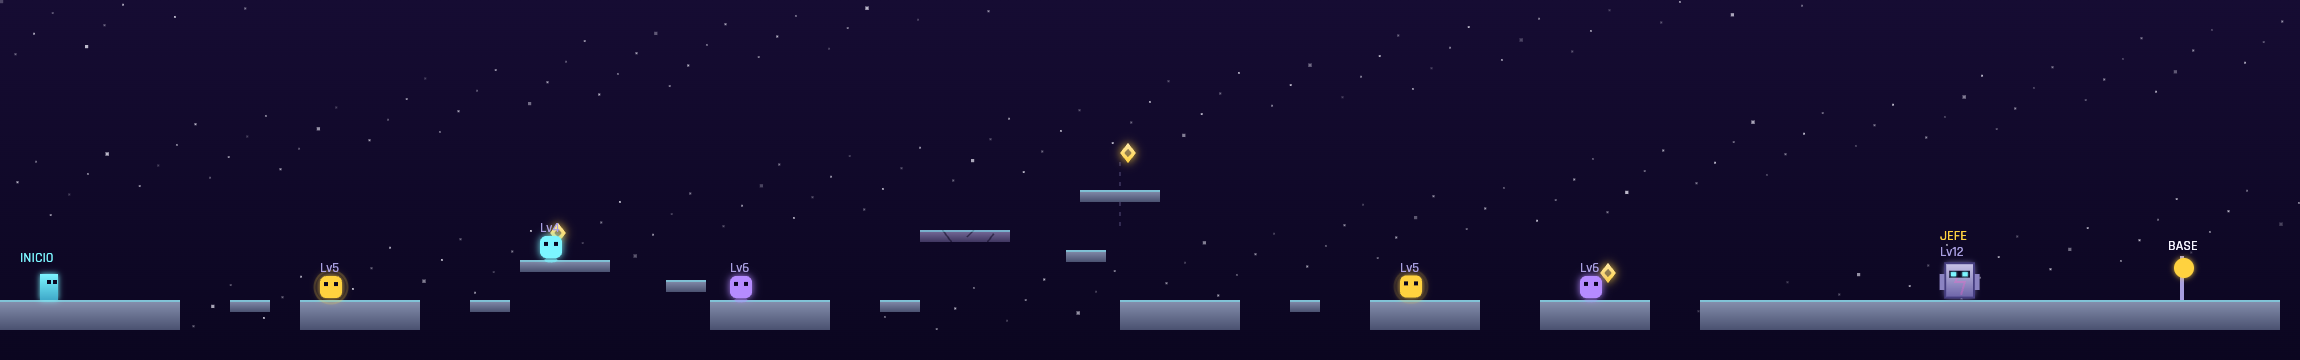
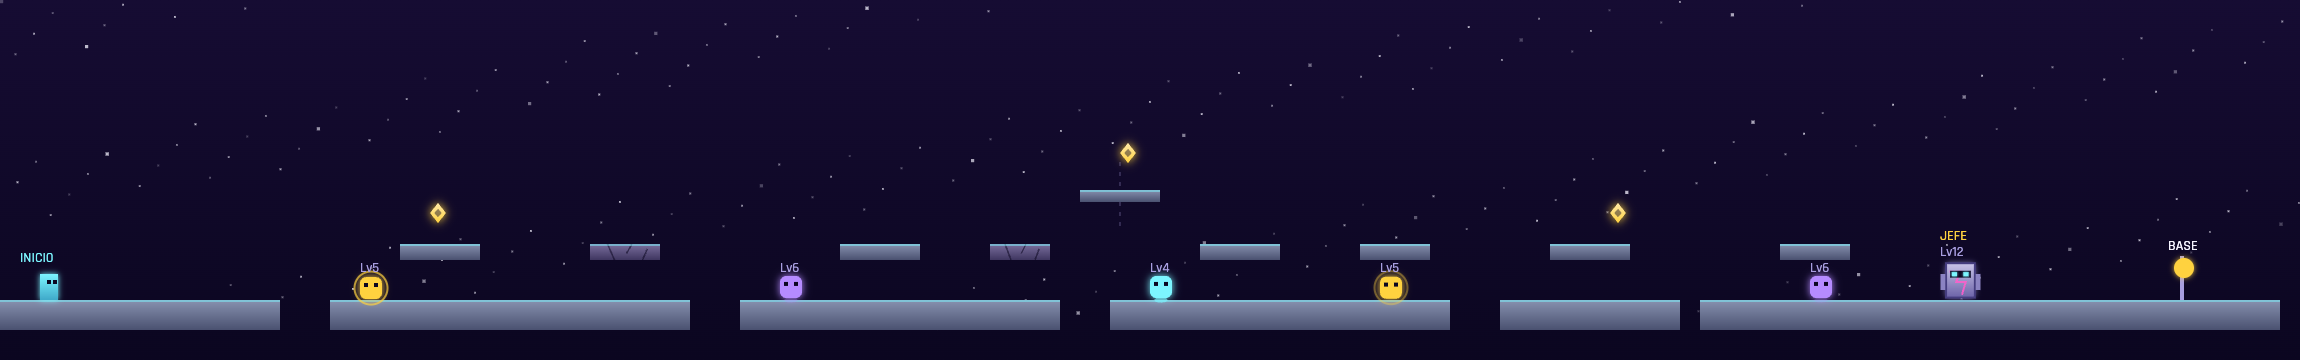
Núcleo del Centinela: el jefe domina la zona con ondas a ras de suelo
El nivel 6 era el de menos peso respecto a su posición: un pasillo
estándar con el duelo al final. Ahora el Centinela domina toda la
aproximación (sentinelWatch en levels.js, patrón calcado de la
tormenta): mientras viva, barre el suelo de su zona con ondas de
energía en ciclo determinista — 3s de calma, 1s apuntando (la franja
se enciende en rojo y las coberturas brillan en cian) y 1s de onda que
daña a quien pise el suelo (6 de daño, tregua corta: aguantar el
barrido entero en el suelo cuesta dos golpes). El nivel se convierte
en un mini-jefe de plataformas ANTES del duelo por turnos, que queda
como fase 2 intacta. Al ganar el duelo la zona se apaga: el dominio
era suyo, y rejugarlo conquistado es un paseo.

El nivel se rehace alrededor de la regla: suelo casi continuo para
correr en la calma y siete coberturas elevadas de salto simple (dos
frágiles: tu refugio puede desmoronarse contigo encima en plena onda),
repartidas para que desde cualquier punto haya una a menos de lo
andable durante el aviso — invariante fijado por test muestreando la
zona entera. La onda (60f) dura más que un salto simple (27f) a
propósito: saltar sin cobertura no basta, que era el encargo; el
doble salto/vuelo sí la aguanta — la Energía compra el atajo. Se
descartó el line-of-sight tras pilares: en 1D, el primer pilar da
sombra a toda la zona y la mecánica se trivializa.

La primera calibración (calma 4s, onda 0,8s, tregua 50) dejaba cruzar
[…]

diff --git a/js/game.js b/js/game.js
@@ -692,6 +692,18 @@ class Game {
         this.stormT = 0;
         // Sistema de emergencia (árbol de mejoras): se rearma con cada (re)carga de nivel.
         this.player.emergencyUsed = false;
+        // Barrido del Centinela (ver sentinelWatch en levels.js): como la tormenta, el reloj
+        // arranca en calma con cada (re)carga — nunca reapareces con la onda encima.
+        this.watchT = 0;
+    }
+
+    // Fase del barrido del Centinela según this.watchT: calma (avanza) → apunta (súbete a una
+    // cobertura) → onda (el suelo de su zona quema). Frames, determinista, como la tormenta.
+    watchPhase(watch) {
+        const c = this.watchT % (watch.calm + watch.warn + watch.fire);
+        if (c < watch.calm) return 'calm';
+        if (c < watch.calm + watch.warn) return 'warn';
+        return 'fire';
     }
 
     // Destapa en el mapa las puertas de las torres cuyo umbral de cristales ya se cumple.
@@ -1575,6 +1587,33 @@ class Game {
                 }
             }
 
+            // Barrido del Centinela: solo mientras el jefe viva. En plena onda, daña a quien
+            // tenga los pies en la franja del suelo de su zona — a salvo sobre una cobertura
+            // elevada o en el aire. Mismo patrón golpe+tregua que puertas y tormenta.
+            const watch = level.sentinelWatch;
+            if (watch) {
+                const watchBoss = this.enemies.find(e => e.isBoss);
+                if (watchBoss && watchBoss.alive) {
+                    const prevWatch = this.watchPhase(watch);
+                    this.watchT++;
+                    const wPhase = this.watchPhase(watch);
+                    if (wPhase === 'warn' && prevWatch === 'calm') {
+                        if (window.SFX) SFX.bossCharge();
+                        this.showHint('sentinel-watch', 'El Centinela barre su dominio a ras de suelo: cuando apunte, súbete a una cobertura elevada — un salto no dura lo que la onda.');
+                    }
+                    if (wPhase === 'fire' && this.playerInvulnerable === 0
+                        && this.player.x + this.player.w > watch.zoneStart && this.player.x < watchBoss.x
+                        && this.player.y + this.player.h > watch.band) {
+                        this.player.takeDamage(this.hazardDamage(6));
+                        this.playerInvulnerable = 40; // tregua corta a propósito: quedarse en el suelo la onda entera cuesta DOS golpes
+                        this.shake = Math.max(this.shake, 6);
+                        this.particles.burst(this.player.x + this.player.w / 2, this.player.y + this.player.h, '#ff5c6c', 12, { speed: 2, life: 20, size: 2.5 });
+                        if (window.SFX) SFX.zap();
+                        if (this.player.hp <= 0) { this.loseLife(); return; }
+                    }
+                }
+            }
+
             for (const cry of this.crystals) {
                 if (cry.collected) continue;
                 cry.update();
@@ -1798,6 +1837,55 @@ class Game {
                     ctx.font = '10px "Rajdhani", sans-serif'; ctx.fillStyle = PALETTE.dim;
                     ctx.fillText('EL NÚCLEO VA A COLAPSAR', GAME_WIDTH / 2, GAME_HEIGHT / 2 + 18);
                     ctx.textAlign = 'left';
+                }
+            }
+
+            // Barrido del Centinela: capa visual (la lógica de daño vive en update()). Apuntar
+            // = resplandor rojo creciente en la franja del suelo de la zona; onda = franja roja
+            // encendida con parpadeo. El brillo cian sobre cada cobertura señala dónde subirse
+            // (la misma idea que el resplandor de refugios de la tormenta). Con reduceEffects,
+            // valores fijos sin pulso.
+            if (level.sentinelWatch) {
+                const watchBoss = this.enemies.find(e => e.isBoss);
+                if (watchBoss && watchBoss.alive) {
+                    const w = level.sentinelWatch;
+                    const wPhase = this.watchPhase(w);
+                    if (wPhase !== 'calm') {
+                        const zx = Math.max(w.zoneStart - this.cameraX, 0);
+                        const zw = Math.min(watchBoss.x - this.cameraX, GAME_WIDTH) - zx;
+                        if (zw > 0) {
+                            if (wPhase === 'warn') {
+                                const c = this.watchT % (w.calm + w.warn + w.fire);
+                                const charge = this.reduceEffects ? 0.5 : (c - w.calm) / w.warn; // crece hacia la onda
+                                ctx.fillStyle = `rgba(255,92,108,${0.08 + 0.14 * charge})`;
+                                ctx.fillRect(zx, w.band, zw, 150 - w.band + 8);
+                            } else {
+                                const flick = this.reduceEffects ? 1 : 0.8 + Math.random() * 0.2;
+                                ctx.save();
+                                ctx.shadowColor = '#ff5c6c'; ctx.shadowBlur = 8;
+                                ctx.fillStyle = `rgba(255,92,108,${0.5 * flick})`;
+                                ctx.fillRect(zx, w.band, zw, 150 - w.band + 8);
+                                ctx.fillStyle = `rgba(255,235,235,${0.55 * flick})`;
+                                ctx.fillRect(zx, w.band, zw, 3);
+                                ctx.restore();
+                            }
+                            // brillo sobre las coberturas: dónde subirse
+                            for (const p of this.platforms) {
+                                if (!p.solid || p.y > w.band || p.h > 10 || p.y < 100) continue;
+                                const sx = p.x - this.cameraX;
+                                if (sx > GAME_WIDTH || sx + p.w < 0) continue;
+                                const coverGrad = ctx.createLinearGradient(0, p.y - 14, 0, p.y);
+                                coverGrad.addColorStop(0, 'rgba(124,245,255,0)');
+                                coverGrad.addColorStop(1, 'rgba(124,245,255,0.2)');
+                                ctx.fillStyle = coverGrad;
+                                ctx.fillRect(sx, p.y - 14, p.w, 14);
+                            }
+                            ctx.fillStyle = wPhase === 'warn' ? 'rgba(255,92,108,0.9)' : 'rgba(255,235,235,0.95)';
+                            ctx.font = 'bold 8px "Rajdhani", sans-serif'; ctx.textAlign = 'center';
+                            ctx.fillText(wPhase === 'warn' ? '⚠ EL CENTINELA APUNTA' : '⚡ ONDA DE BARRIDO — A CUBIERTO', GAME_WIDTH / 2, 28);
+                            ctx.textAlign = 'left';
+                        }
+                    }
                 }
             }
 

diff --git a/__tests__/live.test.js b/__tests__/live.test.js
@@ -1407,6 +1407,120 @@ describe('Tormenta iónica — nivel 5 (contra js/game.js real)', () => {
     });
 });
 
+describe('El dominio del Centinela — barrido del nivel 6 (contra js/game.js real)', () => {
+    function inWatchLevel() {
+        const { game, LEVELS, Player } = loadGame();
+        game.gameStarted = true;
+        game.loadLevel(5); // Núcleo del Centinela
+        game.inWorldMap = false; game.inLevel = true; game.combat = null; game.levelCompleting = false;
+        // aparta a todos MENOS al jefe (la zona depende de que siga vivo)
+        game.enemies.forEach(e => { if (!e.isBoss) { e.x = -2500; e.initialX = -2500; } });
+        game.hintsSeen.add('sentinel-watch');
+        return { game, watch: LEVELS[5].sentinelWatch, LEVELS, Player };
+    }
+    function standAt(game, x, y = 137) {
+        game.player.x = x; game.player.y = y;
+        game.player.vx = 0; game.player.vy = 0; game.player.onGround = true;
+    }
+
+    test('el ciclo calma → apunta → onda es determinista por frames', () => {
+        const { game, watch } = inWatchLevel();
+        game.watchT = 0;
+        expect(game.watchPhase(watch)).toBe('calm');
+        game.watchT = watch.calm;
+        expect(game.watchPhase(watch)).toBe('warn');
+        game.watchT = watch.calm + watch.warn;
+        expect(game.watchPhase(watch)).toBe('fire');
+        game.watchT = watch.calm + watch.warn + watch.fire;
+        expect(game.watchPhase(watch)).toBe('calm');
+    });
+
+    test('la onda golpea a quien pisa el suelo de la zona, con tregua (no re-golpea por frame)', () => {
+        const { game, watch } = inWatchLevel();
+        standAt(game, 250); // suelo de la zona, sin cobertura
+        game.watchT = watch.calm + watch.warn;
+        const hp0 = game.player.hp;
+        game.update();
+        expect(game.player.hp).toBe(hp0 - Math.max(1, 6 - game.player.defense));
+        expect(game.playerInvulnerable).toBe(40);
+        const hp1 = game.player.hp;
+        for (let i = 0; i < 20; i++) game.update();
+        expect(game.player.hp).toBe(hp1);
+    });
+
+    test('sobre una cobertura elevada, la onda entera pasa de largo', () => {
+        const { game, watch } = inWatchLevel();
+        standAt(game, 210, 109); // encima de la cobertura [200,122,40,8]
+        game.watchT = watch.calm + watch.warn;
+        const hp0 = game.player.hp;
+        for (let i = 0; i < watch.fire; i++) game.update();
+        expect(game.player.hp).toBe(hp0);
+    });
+
+    test('en el aire en el instante de la onda tampoco golpea (los pies están sobre la franja)', () => {
+        const { game, watch } = inWatchLevel();
+        standAt(game, 250);
+        game.player.y = 90; game.player.onGround = false; game.player.vy = 0; // en pleno salto
+        game.watchT = watch.calm + watch.warn;
+        const hp0 = game.player.hp;
+        game.update();
+        expect(game.player.hp).toBe(hp0);
+    });
+
+    test('la intro (antes de zoneStart) queda fuera del dominio', () => {
+        const { game, watch } = inWatchLevel();
+        standAt(game, 60); // x + w < 140
+        game.watchT = watch.calm + watch.warn;
+        const hp0 = game.player.hp;
+        for (let i = 0; i < watch.fire; i++) game.update();
+        expect(game.player.hp).toBe(hp0);
+    });
+
+    test('con el Centinela derrotado, la zona se apaga', () => {
+        const { game, watch } = inWatchLevel();
+        game.enemies.find(e => e.isBoss).alive = false;
+        standAt(game, 250);
+        game.watchT = watch.calm + watch.warn;
+        const hp0 = game.player.hp;
+        for (let i = 0; i < watch.fire; i++) game.update();
+        expect(game.player.hp).toBe(hp0);
+    });
+
+    test('regla de diseño: desde cualquier punto de la zona hay cobertura (o salida) a lo andable en el aviso', () => {
+        const { game, watch, LEVELS, Player } = inWatchLevel();
+        const lvl = LEVELS[5];
+        const speed = new Player(0, 0, 'kes').speed;
+        const reachInWarn = watch.warn * speed;
+        const bossX = lvl.enemies.find(e => e[2] === 'sentinel')[0];
+        // coberturas: plataformas elevadas finas por encima de la franja
+        const covers = lvl.platforms.filter(p => p[1] < watch.band && p[3] <= 10);
+        expect(covers.length).toBeGreaterThanOrEqual(6);
+        for (let x = watch.zoneStart; x < bossX; x += 5) {
+            const toCover = Math.min(...covers.map(c => x < c[0] ? c[0] - x : (x > c[0] + c[2] ? x - (c[0] + c[2]) : 0)));
+            const toExit = x - watch.zoneStart; // también vale retirarse de la zona
+            expect(Math.min(toCover, toExit)).toBeLessThanOrEqual(reachInWarn);
+        }
+    });
+
+    test('regla de diseño: la onda dura más que un salto simple — saltar sin cobertura no basta', () => {
+        const { watch, LEVELS, Player } = inWatchLevel();
+        const { Platform } = loadGame();
+        const floor = new Platform(0, 150, 500, 15);
+        const p = new Player(20, 137, 'scrap');
+        p.onGround = true;
+        const particles = { burst() {} };
+        let jumped = false, airFrames = 0;
+        for (let f = 0; f < 120; f++) {
+            p.update({ Space: !jumped }, [floor], particles);
+            jumped = true;
+            if (!p.onGround) airFrames++;
+            else if (jumped && f > 5) break; // aterrizó: fin del salto
+        }
+        expect(airFrames).toBeGreaterThan(0);
+        expect(watch.fire).toBeGreaterThan(airFrames); // 50 > ~27: el aire no te cubre la onda entera
+    });
+});
+
 describe('Túnel de Escape — cuenta atrás del scroll forzado (contra js/game.js real)', () => {
     function inTunnel() {
         const { game } = loadGame();

diff --git a/js/levels.js b/js/levels.js
@@ -177,20 +177,34 @@ const LEVELS = [
     },
     {
         name: 'Núcleo del Centinela', world: 2, variant: 'metal',
+        // El Centinela DOMINA su zona: mientras viva, barre el suelo con ondas de energía en
+        // ciclo determinista (calma 3s → apunta 1s → onda 1s; lógica en Game.update). La
+        // onda daña a quien tenga los pies en la franja del suelo entre zoneStart y el jefe:
+        // te salvas subiéndote a una COBERTURA elevada (y=122, algunas frágiles...) o
+        // aguantando en el aire — y una onda (60f) dura más que un salto simple (27f), así que
+        // saltar sin cobertura no basta. Es el inverso de la tormenta del N5: allí te escondes
+        // DEBAJO; aquí te subes ENCIMA. Al ganar el duelo, la zona se apaga.
+        sentinelWatch: { zoneStart: 140, calm: 180, warn: 60, fire: 60, band: 132 },
         platforms: [
-            [0, 150, 90, 15], [150, 150, 60, 15], [260, 130, 45, 6],
-            [355, 150, 60, 15], [460, 115, 45, 6, 'fragile'], [560, 150, 60, 15],
-            // Antesala añadida al alargar el nivel: la arena del Centinela se desplaza a la
-            // derecha y estos dos tramos rellenan el camino.
-            [685, 150, 55, 15], [770, 150, 55, 15], [850, 150, 290, 15],
-            // Camino bajo con salto simple (ver Grietas de Hielo/Chatarral Magnético).
-            [115, 150, 20, 6], [235, 150, 20, 6], [333, 140, 20, 6],
-            [440, 150, 20, 6], [533, 125, 20, 6], [645, 150, 15, 6]
+            // Intro segura (antes de zoneStart) y suelo casi continuo: correr es la fase de
+            // avance; los huecos de 25 son el único peligro del suelo fuera de las ondas.
+            [0, 150, 140, 15],
+            [165, 150, 180, 15], [370, 150, 160, 15], [555, 150, 170, 15], [750, 150, 90, 15],
+            [850, 150, 290, 15],
+            // Coberturas (subida 28: salto simple), repartidas para que desde cualquier punto
+            // de la zona haya una a ≤93 — lo andable durante el aviso de 60 frames. Dos son
+            // FRÁGILES: tu cobertura puede desmoronarse bajo los pies en plena onda.
+            [200, 122, 40, 8], [295, 122, 35, 8, 'fragile'],
+            [420, 122, 40, 8], [495, 122, 30, 8, 'fragile'],
+            [600, 122, 40, 8], [680, 122, 35, 8],
+            [775, 122, 40, 8],
+            [890, 122, 35, 8] // la de la arena: la última antes del duelo
         ],
         movingPlatforms: [[540, 95, 40, 6, 14, 0.02]],
-        enemies: [[160, 138, 'magnetite'], [270, 118, 'hoverbot', 40], [365, 138, 'ionwisp', 50], [700, 138, 'magnetite'], [790, 138, 'ionwisp', 45], [970, 130, 'sentinel']],
-        // Cristales de Señal: flotante del camino, punto alto de la móvil y la antesala.
-        crystals: [[275, 112], [560, 72], [800, 132]],
+        enemies: [[180, 138, 'magnetite'], [390, 138, 'ionwisp', 50], [575, 138, 'hoverbot', 45], [690, 138, 'magnetite'], [905, 138, 'ionwisp', 40], [970, 130, 'sentinel']],
+        // Cristales de Señal: sobre la 1ª cobertura, el punto alto de la móvil y la cobertura
+        // de la antesala.
+        crystals: [[215, 102], [560, 72], [805, 102]],
         goal: 1090, boss: 'sentinel'
     },
 

diff --git a/GUIA.md b/GUIA.md
@@ -98,6 +98,7 @@ El Mundo 1 estrena el terreno con un solo giro (el hielo del nivel 2 — que ade
 | **Plataforma frágil** (agrietada) | Mundo 2 (nivel 4) | Al pisarla tiembla y se desmorona a los ~0,8s. **Reaparece a los 3s** — nunca te deja encerrado | No te pares encima: cruza de una pasada. Si cae, espera a que reaparezca |
 | **Plataforma móvil** (raíl punteado) | Mundo 2 (nivel 4) | Sube y baja en ciclo constante. Te lleva encima sin resbalar | Son atajos de ruta alta — el camino obligatorio nunca depende de ellas en los 12 niveles del mapa. **Excepción**: en los niveles Extra pueden ser **ascensores obligatorios** (Aguja Glacial) — espera a que baje, súbete y viaja |
 | **Tormenta iónica** (ciclo de cielo) | Mundo 2 (nivel 5) | Ciclo global de 8,5s: **5s de calma** → **1,5s de aviso** (tinte ámbar, «⚠ TORMENTA INMINENTE») → **2s de descarga** (tinte violeta y rayos). Durante la descarga, estar **al raso** hace 5 de daño con tregua de invulnerabilidad (~hasta 3 golpes si aguantas fuera la descarga entera) | La regla del techo: estás a salvo con **cualquier plataforma sólida encima de la cabeza** — el resplandor cian bajo las plataformas te marca dónde. Corre de refugio en refugio durante la calma; si el aviso te pilla a medias, métete bajo la flotante más cercana o paga el peaje en HP |
+| **Barrido del Centinela** (franja roja en el suelo) | Mundo 2 (nivel 6) | Solo mientras el jefe viva: ciclo de 5s — **3s de calma** → **1s apuntando** (la franja del suelo se enciende en rojo) → **1s de onda** a ras de suelo por TODA su zona. Pisar el suelo durante la onda hace **6 de daño**, con tregua corta (quedarte el barrido entero cuesta dos golpes) | Súbete a una **cobertura elevada** (brillan en cian al apuntar; dos son frágiles...) o gasta habilidad aérea para aguantar en el aire — un salto simple (27f) NO dura lo que la onda (60f). Al ganar el duelo, la zona se apaga |
 | **Puerta de energía** (columna vertical entre emisores) | Mundo 3 (nivel 7) | Bloquea el paso a ras de suelo con ciclo fijo de 2,5s: 1,5s apagada → 0,25s de aviso (chisporroteo) → 0,75s activa. Activa hace **4 de daño** y te empuja hacia atrás, con tregua de invulnerabilidad | Tres opciones: **esperar** el ciclo (el chisporroteo es tu semáforo), **saltarla por arriba** con habilidad aérea (40 de alto: el salto simple no llega, el doble salto/vuelo/dash sí — la Energía compra tiempo), o **atravesarla pagando** los 4 de daño y aprovechando la tregua. Las puertas de un mismo nivel van desfasadas |
 | **Cinta magnética** (chevrones) | Mundo 3 (nivel 9) | Te arrastra ~30% de tu velocidad en la dirección de los chevrones — siempre en contra | Camina sin pararte (avanzas igual, más despacio) y no te detengas cerca de un borde |
 
@@ -211,7 +212,8 @@ El primer nivel con **presión temporal**: la tormenta iónica descarga en ciclo
 
 ![Mapa del nivel 6](guia/nivel-06.png)
 
-Sin secretos: nivel de puro camino hacia el [Centinela](#-centinela--núcleo-del-centinela-nivel-6), con un islote **frágil** a mitad y una **móvil** de atajo. Los 5 enemigos previos son tu última oportunidad de ganar XP/Energía antes del duelo.
+El dominio del Centinela: desde x≈140 hasta su arena, **barre el suelo con ondas de energía** en ciclo (ver Peligros) mientras siga vivo — el nivel es un mini-jefe de plataformas ANTES del duelo. Corre durante la calma y, cuando la franja del suelo se encienda en rojo, súbete a una de las **coberturas elevadas** (brillan en cian; dos son **frágiles** y pueden desmoronarse contigo encima en plena onda). Magnetitas, espectros y un hoverbot patrullan entre ondas, y la **móvil** sigue siendo la ruta alta.
+- **Jefe**: [Centinela](#%EF%B8%8F-centinela--núcleo-del-centinela-nivel-6). Tras ganar el duelo, la zona se apaga — rejugar el nivel limpio es un paseo.
 
 ### Nivel 7 · Muelle de Carga (Estación Colapsada)
 

diff --git a/DESIGN.md b/DESIGN.md
@@ -369,3 +369,13 @@ Las dos torres Extra (§2.23-2.24) vivían solo tras una URL de depuración. Aho
 - **La puerta APARECE, no se muestra bloqueada**: los nodos extra no se dibujan hasta cumplir su umbral (flag `extra` en `LevelNode` + `applySignalUnlocks`). Un candado visible convierte el secreto en checklist; una puerta que se materializa con «¡SEÑAL TRIANGULADA!» convierte el coleccionable en descubrimiento. Sin `paths` en la constelación: son portales aparte, y el desbloqueo en cadena de `completeLevel` los salta (completar Nodo Cero no destapa nada; solo los cristales abren torres).
 - **Persisten como progresión, no como pickup de sesión**: `signalCrystals` (Set de índices de nivel) viaja en el guardado — a diferencia de `collectedPickups`, que es de sesión — porque abren contenido y no deben "des-recogerse" al recargar el navegador. El mismo Set hace de anti-refarmeo en `loadLevel`. Se pierden con Game Over/victoria/Nueva Partida (ciclo roguelike, como el árbol de mejoras), y el Reto Diario los intercambia con el resto del estado `_real*`.
 - Un test de invariante fija la colocación: exactamente 3 por nivel del mapa, 0 en las torres, y siempre a 8-42 por encima de una plataforma (o del punto ALTO de una móvil) con solape horizontal — es decir, rozables de un salto, nunca decorativos inalcanzables.
+
+### 2.26 El dominio del Centinela: mini-jefe de plataformas antes del duelo
+
+El nivel 6 era el de menos peso respecto a su posición: un pasillo estándar con el duelo al final, idéntico en estructura a cualquier otro. Ahora el Centinela **domina su zona entera** (`sentinelWatch` en `levels.js`, lógica en `Game.update` calcada del patrón de la tormenta §2.21): mientras viva, barre el suelo con **ondas de energía a ras de suelo** en ciclo determinista (3s de calma → 1s apuntando → 1s de onda) desde x=140 hasta su arena. La aproximación se convierte en la fase 1 del jefe — un mini-jefe de plataformas — y el duelo por turnos existente queda como fase 2.
+
+- **La regla**: durante la onda, daña a quien tenga los pies en la franja del suelo de la zona (6 de daño, tregua de 40 — quedarse el barrido entero cuesta DOS golpes). A salvo: encima de una **cobertura elevada** (y=122, salto simple) o en el aire. Y la onda (60f) dura más que un salto simple (27f) A PROPÓSITO: saltar sin cobertura no basta — las coberturas son obligatorias, que era el encargo. El doble salto/vuelo sí aguanta la onda entera: la Energía compra el atajo, como siempre. Es el inverso legible de la tormenta: allí te escondes DEBAJO de algo; aquí te subes ENCIMA.
+- **Descartado el line-of-sight** (esconderse detrás de pilares): en 1D, un solo pilar da sombra a todo lo que queda a su izquierda y la mecánica se trivializa en cuanto pasas el primero.
+- **Coberturas cada ≤93** (lo andable durante el aviso de 60 frames, fijado por test muestreando toda la zona): el aviso siempre da tiempo de llegar a una — o de retirarse por la izquierda, fuera del dominio. Dos coberturas son frágiles: tu refugio puede desmoronarse contigo encima en plena onda, el toque de crueldad del ecuador del juego.
+- **La zona se apaga al ganar el duelo** (`boss.alive` como interruptor): rejugar el nivel ya conquistado es un paseo — la mecánica cuenta la historia (el dominio ERA suyo) sin una línea de diálogo.
+- Primera calibración: calma 4s/onda 0,8s/tregua 50 dejaba cruzar toda la zona ignorando el barrido por UN golpe — no obligaba a nada. Con calma 3s/onda 1s/tregua 40, el bot que lo ignora paga 7 golpes (~media vida) y encima tarda más que el que usa coberturas: ahora la mecánica manda.

diff --git a/README.md b/README.md
@@ -52,7 +52,7 @@ Todos los niveles se pueden completar con cualquier piloto (verificado por un te
 | | 3 | Nido de la Reina Larva | **Jefe: Reina Larva** — se regenera cada 3 turnos; hueco de dash de Shade |
 | 2 · Luna Ferrosa | 4 | Chatarral Magnético | Enemigos voladores; **debutan las plataformas frágiles y las móviles** |
 | | 5 | Tormenta de Iones | **Tormenta iónica con presión temporal**: corre en la calma, cobíjate bajo techo en la descarga |
-| | 6 | Núcleo del Centinela | **Jefe: Centinela** — carga un turno y golpea el doble (ventana para Defender) |
+| | 6 | Núcleo del Centinela | **El Centinela domina la zona**: ondas a ras de suelo en ciclo — corre en la calma, súbete a las coberturas. **Jefe: Centinela** (carga y golpea el doble) |
 | 3 · Estación Colapsada | 7 | Muelle de Carga | **Debutan las puertas de energía** (columnas cíclicas que bloquean el paso); despierta el núcleo |
 | | 8 | Túnel de Escape | **Scroll forzado**: tras 5s de cuenta atrás, un muro de energía avanza solo — con islotes frágiles bajo presión |
 | | 9 | Núcleo del Reactor | **Jefe: Overlord** — ignora Defender cada 3 turnos; **debuta la cinta magnética** en contra |
